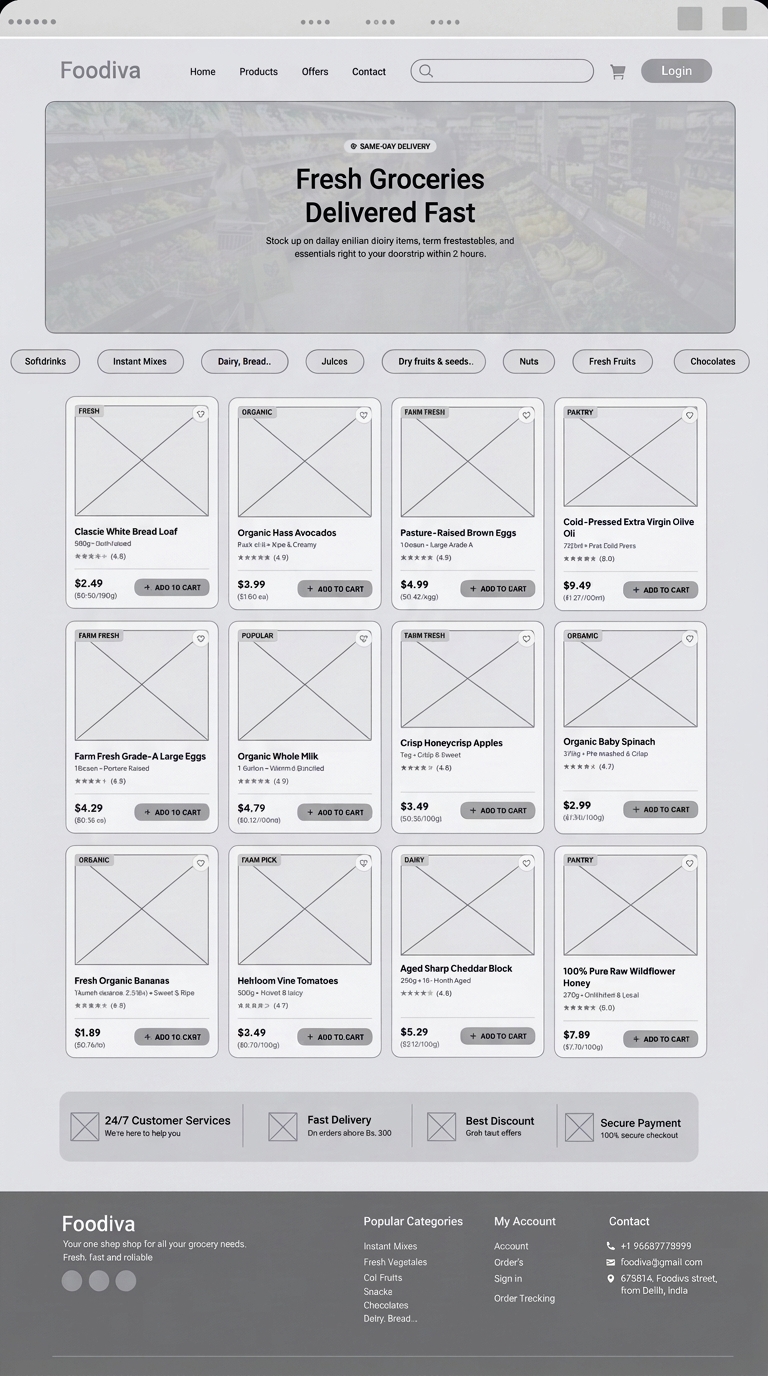
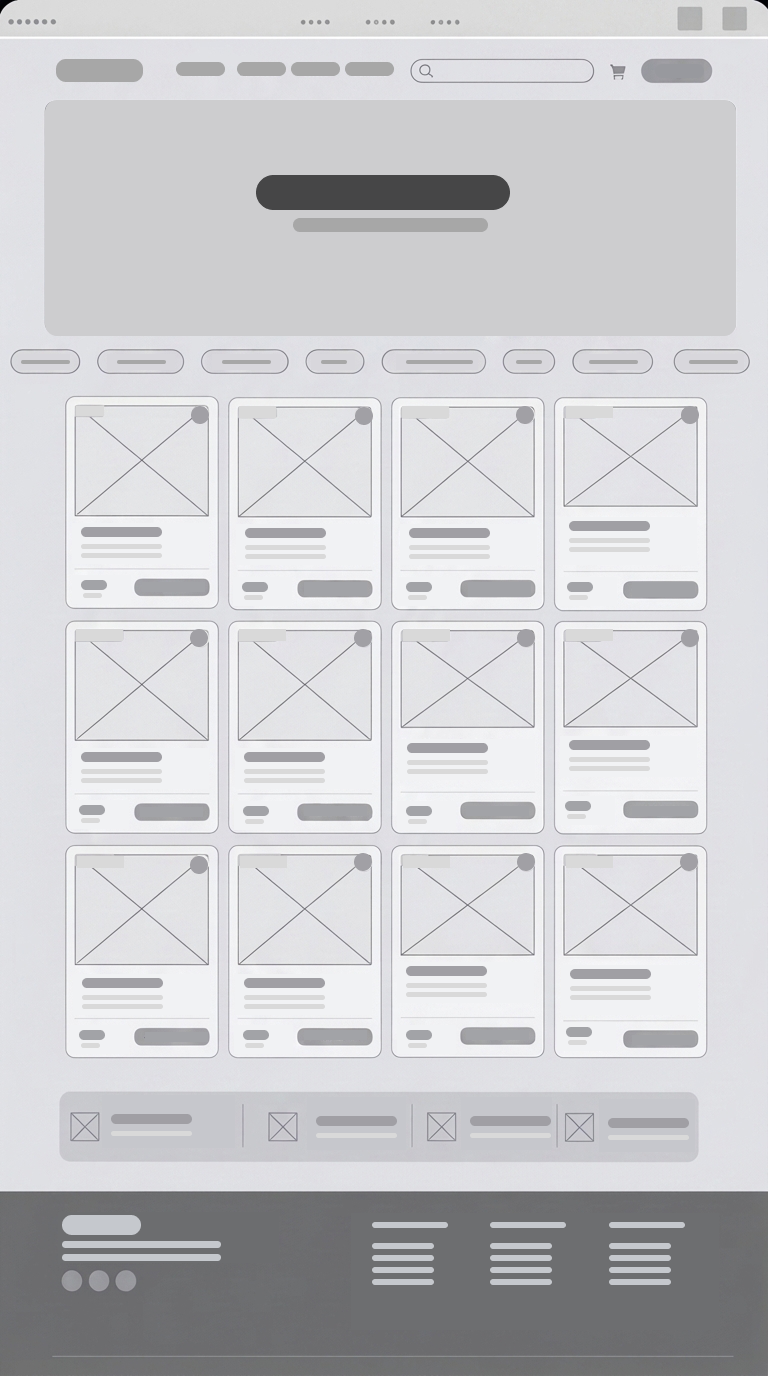
product & about

diff --git a/ecommerceux.html b/ecommerceux.html
@@ -243,7 +243,7 @@
                         <p>Product Page</p>
                     </div>
                     <div class="wife-img-g">
-                        <img class="wire-img" src="img/about-wire.png" alt="">
+                        <img class="wire-img" src="img/about-fram.png" alt="">
                         <p>About Page</p>
                     </div>
                     <div class="wife-img-g">
